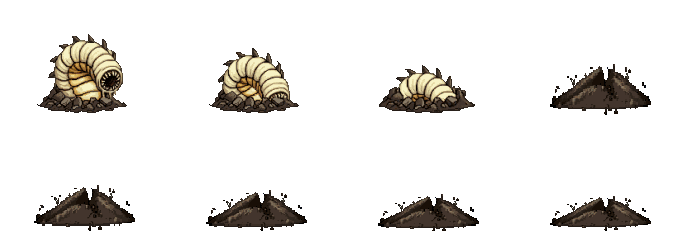
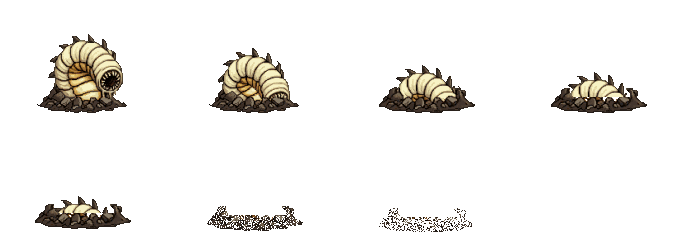
Donjon : le Ver glisse dans ses gravats qui s'émiettent (plus de butte de terre à la fin de sa plongée) ; sa galerie plus haute et plus grosse

diff --git a/godot/scripts/Game/BattleEffects.cs b/godot/scripts/Game/BattleEffects.cs
@@ -173,7 +173,7 @@ public sealed class BattleEffects
         {
             b = new Digger { At = ground, Last = ground, Seed = ++_seed };
             _burrowers[who] = b;
-            _ruts.Add(new Rut { At = ground, Trail = b.Seed });
+            _ruts.Add(new Rut { At = ground + TrailLift, Trail = b.Seed });
             Burst(ground);
         }
         float moved = ground.DistanceTo(b.At);
@@ -183,7 +183,7 @@ public sealed class BattleEffects
         // un morceau de sillon tous les quelques pixels : ils se chevauchent en une seule traînée
         if (ground.DistanceTo(b.Last) >= 4 * U)
         {
-            _ruts.Add(new Rut { At = ground, Trail = b.Seed, Travelled = b.Travelled });
+            _ruts.Add(new Rut { At = ground + TrailLift, Trail = b.Seed, Travelled = b.Travelled });
             b.Last = ground;
         }
         b.Spray -= delta;
@@ -387,7 +387,10 @@ public sealed class BattleEffects
         EarthLight = new(0.4f, 0.35f, 0.28f), Pebble = new(0.5f, 0.48f, 0.44f);
 
     /// <summary>La plus grande hauteur du bourrelet de la galerie, et la taille des mottes qui le font.</summary>
-    private const float RidgeHeight = 3 * U, ClodCell = 4 * Pixel;
+    private const float RidgeHeight = 4 * U, ClodCell = 5 * Pixel;
+
+    /// <summary>La galerie passe un peu au-dessus du pied du fouisseur, au milieu de sa case.</summary>
+    private static readonly Vector2 TrailLift = new(0, -6 * U);
 
     /// <summary>
     /// La galerie d'un fouisseur, comme celle d'une taupe, vue de biais comme le champ : un bourrelet de terre le long de
@@ -401,7 +404,7 @@ public sealed class BattleEffects
         if (trail.Count < 2)
             return;
         int seed = trail[0].Trail;
-        float reach = 10 * U;
+        float reach = 15 * U;
         float minX = trail.Min(r => r.At.X) - reach, maxX = trail.Max(r => r.At.X) + reach;
         float minY = trail.Min(r => r.At.Y) - reach, maxY = trail.Max(r => r.At.Y) + reach;
         int x0 = (int)MathF.Floor(minX / Pixel), y0 = (int)MathF.Floor(minY / Pixel);
@@ -431,7 +434,7 @@ public sealed class BattleEffects
                     // la largeur change doucement : le bourrelet enfle et se resserre
                     float arc = (r0.Travelled + MathF.Sqrt(len2) * t) / (8 * Pixel);
                     float swell = Mathf.Lerp(Noise(seed, (int)arc), Noise(seed, (int)arc + 1), arc % 1);
-                    half = (7 + 4 * swell) * U * (0.5f + 0.5f * grow);
+                    half = (9 + 5 * swell) * U * (0.5f + 0.5f * grow);
                 }
                 // les mottes : chaque case de terre a sa bosse, de taille et de place inégales
                 int cx = (int)MathF.Floor(p.X / ClodCell), cy = (int)MathF.Floor(p.Y * 2 / ClodCell);
